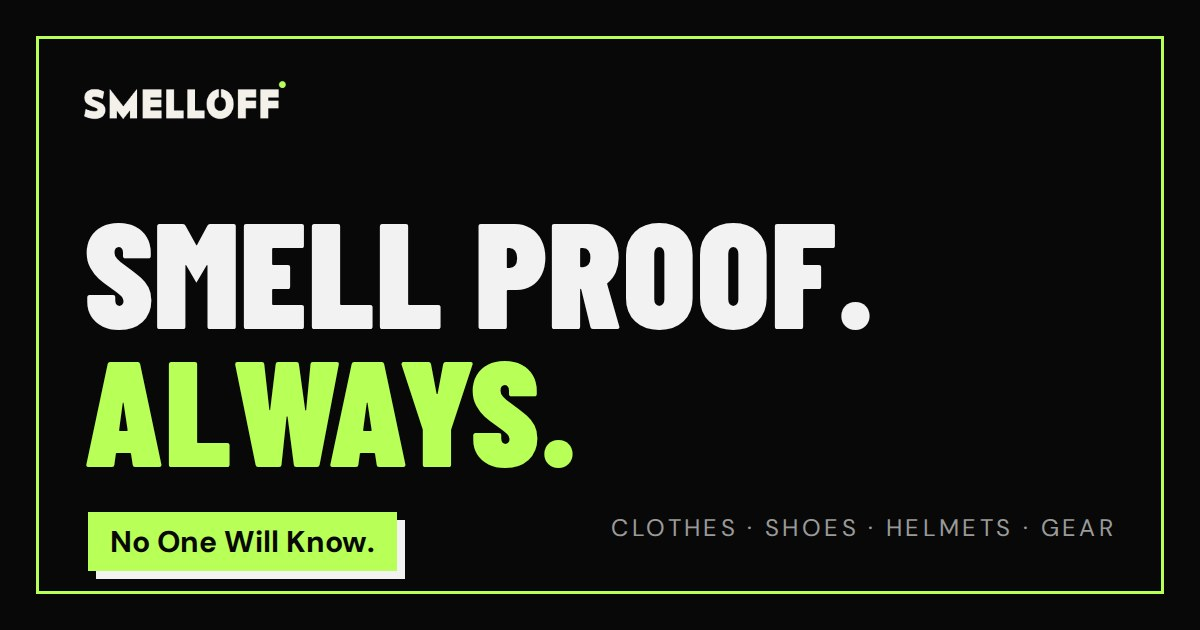
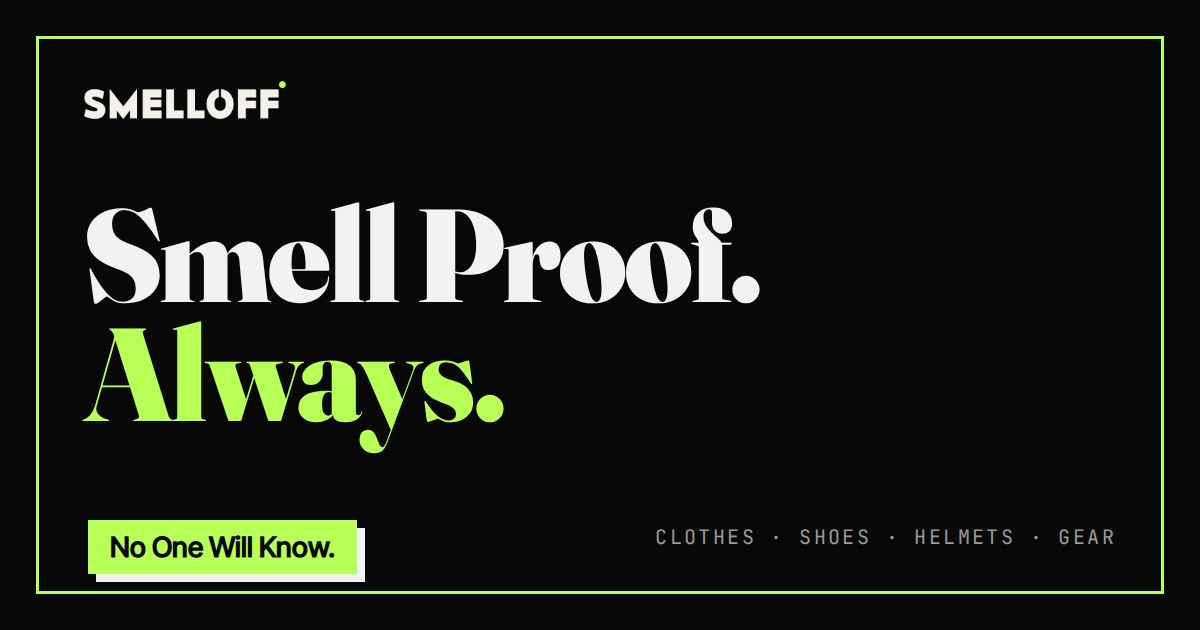
Homepage: switch display type to Fraunces (site's iconic serif)
The rebuilt homepage used Barlow Condensed for display headings, which
broke visual consistency with the rest of smelloff.in (product page,
FAQ, blog) — those use the iconic Fraunces serif. Align the homepage
to the site type system:

- Display headings (H1, section H2s, ODORSTRIKE heading, Hinglish band,
  FAQ questions, zone titles): Fraunces 900, tightened tracking and
  sizes re-tuned for the wider serif.
- Labels / eyebrows / nav / buttons / trust row / footer headings:
  JetBrains Mono (uppercase, letter-spaced), matching the product page.
- Body copy: Inter Tight.
- Preloads now cover Fraunces (LCP H1) + Inter Tight; Barlow Condensed
  and DM Sans dropped from the homepage. New metrics-matched fallbacks
  (Georgia/Arial/Courier New) computed from the actual font files keep
  CLS at 0.
- Regenerated the brand OG image in Fraunces to match.

Lighthouse (mobile, simulated): Perf 99 / A11y 100 / SEO 100;
LCP 2.2s, TBT 40ms, CLS 0. Locked brand lines unchanged; FAQ JSON-LD
still matches visible text.

Claude-Session: https://claude.ai/code/session_01FJyFo4wL4GRjAyhAxPPQ3w

Changed region(s): [[0.0617, 0.3016, 0.74, 0.754], [0.0617, 0.8143, 0.3392, 0.9349], [0.4933, 0.8143, 0.925, 0.8746]]

diff --git a/index.html b/index.html
@@ -131,9 +131,10 @@
 })();
 </script>
 
-<!-- Fonts: self-hosted WOFF2, only the two above-the-fold faces are preloaded -->
-<link rel="preload" as="font" type="font/woff2" href="/assets/fonts/barlow-condensed-normal-latin-900.woff2" crossorigin>
-<link rel="preload" as="font" type="font/woff2" href="/assets/fonts/dm-sans-normal-latin-400.woff2" crossorigin>
+<!-- Fonts: self-hosted WOFF2. Preload only the above-the-fold faces — Fraunces
+     (the hero H1 / LCP text) and Inter Tight (the hero sub-line body). -->
+<link rel="preload" as="font" type="font/woff2" href="/assets/fonts/fraunces-normal-latin-400.woff2" crossorigin>
+<link rel="preload" as="font" type="font/woff2" href="/assets/fonts/inter-tight-normal-latin-400.woff2" crossorigin>
 
 <!-- AI/LLM context files (answer-engine discovery hint) -->
 <link rel="alternate" type="text/plain" title="llms.txt" href="/llms.txt">
@@ -166,14 +167,19 @@
 </script>
 
 <style>
-  /* Self-hosted fonts (latin + latin-ext) with metrics-matched Arial fallbacks
-     (size-adjust/overrides computed from the actual font files) to minimise CLS */
-  @font-face{font-family:'Barlow Condensed';font-style:normal;font-weight:900;font-display:swap;src:url('/assets/fonts/barlow-condensed-normal-latin-900.woff2') format('woff2');unicode-range:U+0000-00FF, U+0131, U+0152-0153, U+02BB-02BC, U+02C6, U+02DA, U+02DC, U+0304, U+0308, U+0329, U+2000-206F, U+20AC, U+2122, U+2191, U+2193, U+2212, U+2215, U+FEFF, U+FFFD;}
-  @font-face{font-family:'Barlow Condensed';font-style:normal;font-weight:900;font-display:swap;src:url('/assets/fonts/barlow-condensed-normal-latin-ext-900.woff2') format('woff2');unicode-range:U+0100-02BA, U+02BD-02C5, U+02C7-02CC, U+02CE-02D7, U+02DD-02FF, U+0304, U+0308, U+0329, U+1D00-1DBF, U+1E00-1E9F, U+1EF2-1EFF, U+2020, U+20A0-20AB, U+20AD-20C0, U+2113, U+2C60-2C7F, U+A720-A7FF;}
-  @font-face{font-family:'DM Sans';font-style:normal;font-weight:400 700;font-display:swap;src:url('/assets/fonts/dm-sans-normal-latin-400.woff2') format('woff2');unicode-range:U+0000-00FF, U+0131, U+0152-0153, U+02BB-02BC, U+02C6, U+02DA, U+02DC, U+0304, U+0308, U+0329, U+2000-206F, U+20AC, U+2122, U+2191, U+2193, U+2212, U+2215, U+FEFF, U+FFFD;}
-  @font-face{font-family:'DM Sans';font-style:normal;font-weight:400 700;font-display:swap;src:url('/assets/fonts/dm-sans-normal-latin-ext-400.woff2') format('woff2');unicode-range:U+0100-02BA, U+02BD-02C5, U+02C7-02CC, U+02CE-02D7, U+02DD-02FF, U+0304, U+0308, U+0329, U+1D00-1DBF, U+1E00-1E9F, U+1EF2-1EFF, U+2020, U+20A0-20AB, U+20AD-20C0, U+2113, U+2C60-2C7F, U+A720-A7FF;}
-  @font-face{font-family:'Barlow Condensed Fallback';src:local('Arial');size-adjust:101.72%;ascent-override:98.31%;descent-override:19.66%;line-gap-override:0%;}
-  @font-face{font-family:'DM Sans Fallback';src:local('Arial');size-adjust:122.34%;ascent-override:81.09%;descent-override:25.34%;line-gap-override:0%;}
+  /* Self-hosted fonts — the iconic Smelloff type system used across the site:
+     Fraunces (serif display) + Inter Tight (body) + JetBrains Mono (labels).
+     Metrics-matched fallbacks (size-adjust/overrides computed from the actual
+     font files) hold CLS near zero while the web fonts swap in. */
+  @font-face{font-family:'Fraunces';font-style:normal;font-weight:400 900;font-display:swap;src:url('/assets/fonts/fraunces-normal-latin-400.woff2') format('woff2');unicode-range:U+0000-00FF, U+0131, U+0152-0153, U+02BB-02BC, U+02C6, U+02DA, U+02DC, U+0304, U+0308, U+0329, U+2000-206F, U+20AC, U+2122, U+2191, U+2193, U+2212, U+2215, U+FEFF, U+FFFD;}
+  @font-face{font-family:'Fraunces';font-style:normal;font-weight:400 900;font-display:swap;src:url('/assets/fonts/fraunces-normal-latin-ext-400.woff2') format('woff2');unicode-range:U+0100-02BA, U+02BD-02C5, U+02C7-02CC, U+02CE-02D7, U+02DD-02FF, U+0304, U+0308, U+0329, U+1D00-1DBF, U+1E00-1E9F, U+1EF2-1EFF, U+2020, U+20A0-20AB, U+20AD-20C0, U+2113, U+2C60-2C7F, U+A720-A7FF;}
+  @font-face{font-family:'Inter Tight';font-style:normal;font-weight:400 500;font-display:swap;src:url('/assets/fonts/inter-tight-normal-latin-400.woff2') format('woff2');unicode-range:U+0000-00FF, U+0131, U+0152-0153, U+02BB-02BC, U+02C6, U+02DA, U+02DC, U+0304, U+0308, U+0329, U+2000-206F, U+20AC, U+2122, U+2191, U+2193, U+2212, U+2215, U+FEFF, U+FFFD;}
+  @font-face{font-family:'Inter Tight';font-style:normal;font-weight:400 500;font-display:swap;src:url('/assets/fonts/inter-tight-normal-latin-ext-400.woff2') format('woff2');unicode-range:U+0100-02BA, U+02BD-02C5, U+02C7-02CC, U+02CE-02D7, U+02DD-02FF, U+0304, U+0308, U+0329, U+1D00-1DBF, U+1E00-1E9F, U+1EF2-1EFF, U+2020, U+20A0-20AB, U+20AD-20C0, U+2113, U+2C60-2C7F, U+A720-A7FF;}
+  @font-face{font-family:'JetBrains Mono';font-style:normal;font-weight:400;font-display:swap;src:url('/assets/fonts/jetbrains-mono-normal-latin-400.woff2') format('woff2');unicode-range:U+0000-00FF, U+0131, U+0152-0153, U+02BB-02BC, U+02C6, U+02DA, U+02DC, U+0304, U+0308, U+0329, U+2000-206F, U+20AC, U+2122, U+2191, U+2193, U+2212, U+2215, U+FEFF, U+FFFD;}
+  @font-face{font-family:'JetBrains Mono';font-style:normal;font-weight:400;font-display:swap;src:url('/assets/fonts/jetbrains-mono-normal-latin-ext-400.woff2') format('woff2');unicode-range:U+0100-02BA, U+02BD-02C5, U+02C7-02CC, U+02CE-02D7, U+02DD-02FF, U+0304, U+0308, U+0329, U+1D00-1DBF, U+1E00-1E9F, U+1EF2-1EFF, U+2020, U+20A0-20AB, U+20AD-20C0, U+2113, U+2C60-2C7F, U+A720-A7FF;}
+  @font-face{font-family:'Fraunces Fallback';src:local('Georgia');size-adjust:109.93%;ascent-override:88.96%;descent-override:23.20%;line-gap-override:0%;}
+  @font-face{font-family:'Inter Tight Fallback';src:local('Arial');size-adjust:136.95%;ascent-override:70.74%;descent-override:17.61%;line-gap-override:0%;}
+  @font-face{font-family:'JetBrains Mono Fallback';src:local('Courier New');size-adjust:99.98%;ascent-override:102.02%;descent-override:30.00%;line-gap-override:0%;}
 
   :root{
     --ink:#080808;
@@ -181,8 +187,9 @@
     --text:#F2F2F2;
     --muted:#B8B8B8;
     --rule:rgba(242,242,242,.16);
-    --display:'Barlow Condensed','Barlow Condensed Fallback',sans-serif;
-    --body:'DM Sans','DM Sans Fallback',sans-serif;
+    --display:'Fraunces','Fraunces Fallback',serif;
+    --mono:'JetBrains Mono','JetBrains Mono Fallback',ui-monospace,monospace;
+    --body:'Inter Tight','Inter Tight Fallback',sans-serif;
   }
   *{box-sizing:border-box;margin:0;padding:0;-webkit-tap-highlight-color:transparent}
   html{scroll-behavior:smooth;-webkit-text-size-adjust:100%}
@@ -233,15 +240,17 @@
   .nav-links{display:none;align-items:center;gap:8px;list-style:none}
   .nav-links a{
     display:inline-block;padding:12px 14px;
-    font-size:15px;font-weight:500;color:var(--text);text-decoration:none;
-    letter-spacing:.04em;text-transform:uppercase;
+    font-family:var(--mono);
+    font-size:13px;font-weight:400;color:var(--text);text-decoration:none;
+    letter-spacing:.12em;text-transform:uppercase;
   }
   .nav-links a:hover{color:var(--acid)}
   .nav-cta, .nav-links a.nav-cta{
     display:inline-flex;align-items:center;justify-content:center;
     background:var(--acid);color:var(--ink);text-decoration:none;
-    font-weight:700;font-size:15px;letter-spacing:.03em;
-    text-transform:none;
+    font-family:var(--mono);
+    font-weight:400;font-size:13px;letter-spacing:.12em;
+    text-transform:uppercase;
     padding:12px 18px;min-height:44px;
     border:2px solid var(--ink);
   }
@@ -262,7 +271,8 @@
   #navMenu a{
     display:block;padding:14px 4px;min-height:44px;
     color:var(--text);text-decoration:none;
-    font-size:17px;font-weight:500;text-transform:uppercase;letter-spacing:.05em;
+    font-family:var(--mono);
+    font-size:15px;font-weight:400;text-transform:uppercase;letter-spacing:.1em;
     border-bottom:1px solid var(--rule);
   }
   #navMenu a:hover{color:var(--acid)}
@@ -278,9 +288,9 @@
   .hero h1{
     font-family:var(--display);
     font-weight:900;
-    font-size:clamp(64px,19vw,176px);
-    line-height:.9;
-    letter-spacing:.01em;
+    font-size:clamp(56px,15.5vw,136px);
+    line-height:.92;
+    letter-spacing:-.02em;
   }
   .hero h1 .acid{color:var(--acid)}
   .hero-sub{
@@ -293,7 +303,7 @@
     display:inline-block;
     margin-top:20px;
     background:var(--acid);color:var(--ink);
-    font-weight:700;font-size:16px;
+    font-weight:600;font-size:16px;
     padding:8px 14px;
     box-shadow:5px 5px 0 var(--text);
   }
@@ -301,9 +311,9 @@
   .btn{
     display:inline-flex;align-items:center;justify-content:center;gap:10px;
     background:var(--acid);color:var(--ink);text-decoration:none;
-    font-family:var(--display);font-weight:900;
-    font-size:24px;letter-spacing:.05em;
-    padding:14px 30px;min-height:52px;
+    font-family:var(--mono);font-weight:400;
+    font-size:16px;letter-spacing:.1em;text-transform:uppercase;
+    padding:16px 30px;min-height:52px;
     border:3px solid var(--ink);
     box-shadow:6px 6px 0 var(--text);
   }
@@ -324,13 +334,15 @@
   }
   .zone svg{flex:0 0 64px;width:64px;height:64px}
   .zone .z-num{
-    font-family:var(--display);font-weight:900;
-    font-size:15px;color:var(--acid);letter-spacing:.15em;
+    display:block;
+    font-family:var(--mono);font-weight:400;
+    font-size:13px;color:var(--acid);letter-spacing:.18em;
+    margin-bottom:2px;
   }
   .zone .z-title{
     font-family:var(--display);font-weight:900;
-    font-size:28px;letter-spacing:.03em;
-    line-height:1;
+    font-size:27px;letter-spacing:-.01em;
+    line-height:1.02;
   }
   .zone p{font-size:15px;color:var(--muted);margin-top:6px}
   @media(min-width:768px){
@@ -342,16 +354,16 @@
   /* ============ Sections ============ */
   section{padding:64px 0}
   .eyebrow{
-    font-family:var(--display);font-weight:900;
-    font-size:16px;letter-spacing:.2em;text-transform:uppercase;
+    font-family:var(--mono);font-weight:400;
+    font-size:13px;letter-spacing:.2em;text-transform:uppercase;
     color:var(--acid);
     margin-bottom:14px;
   }
   h2{
     font-family:var(--display);font-weight:900;
-    font-size:clamp(40px,8vw,72px);
-    line-height:.95;
-    letter-spacing:.01em;
+    font-size:clamp(36px,7vw,62px);
+    line-height:1;
+    letter-spacing:-.02em;
     margin-bottom:22px;
   }
   .section-body{max-width:640px;font-size:18px}
@@ -392,11 +404,11 @@
   }
   .band p{
     font-family:var(--display);font-weight:900;
-    font-size:clamp(34px,7.5vw,72px);
-    line-height:1;
+    font-size:clamp(30px,6.5vw,60px);
+    line-height:1.04;
     color:var(--ink);
     text-align:center;
-    letter-spacing:.02em;
+    letter-spacing:-.01em;
   }
 
   /* ============ Brand proof ============ */
@@ -410,12 +422,13 @@
     border:2px solid var(--text);
     padding:18px 14px;
     display:flex;align-items:center;gap:12px;
-    font-weight:700;font-size:15px;letter-spacing:.02em;
+    font-family:var(--mono);font-weight:400;
+    font-size:12px;letter-spacing:.1em;text-transform:uppercase;
   }
   .trust-row svg{flex:0 0 28px;width:28px;height:28px}
   @media(min-width:768px){
     .trust-row{grid-template-columns:repeat(4,1fr);gap:20px}
-    .trust-row li{padding:22px 18px;font-size:16px}
+    .trust-row li{padding:22px 18px;font-size:13px}
   }
 
   /* ============ FAQ ============ */
@@ -429,8 +442,8 @@
   }
   .faq-item h3{
     font-family:var(--display);font-weight:900;
-    font-size:26px;letter-spacing:.02em;
-    line-height:1.05;
+    font-size:25px;letter-spacing:-.01em;
+    line-height:1.1;
     margin-bottom:10px;
   }
   .faq-item p{font-size:17px}
@@ -451,8 +464,8 @@
   footer .f-brand img{height:26px;width:auto;display:block}
   footer .f-brand p{color:var(--muted);margin-top:10px;font-size:15px;max-width:260px}
   footer h3{
-    font-family:var(--display);font-weight:900;
-    font-size:17px;letter-spacing:.15em;text-transform:uppercase;
+    font-family:var(--mono);font-weight:400;
+    font-size:13px;letter-spacing:.15em;text-transform:uppercase;
     color:var(--acid);margin-bottom:12px;
   }
   footer ul{list-style:none}
@@ -470,8 +483,9 @@
     margin-top:44px;padding-top:20px;
     border-top:1px solid var(--rule);
     display:flex;flex-direction:column;gap:10px;
-    font-size:12.5px;color:#9E9E9E;
-    letter-spacing:.04em;
+    font-family:var(--mono);
+    font-size:11.5px;color:#9E9E9E;
+    letter-spacing:.06em;text-transform:uppercase;
   }
   @media(min-width:768px){
     .footer-bottom{flex-direction:row;justify-content:space-between}
